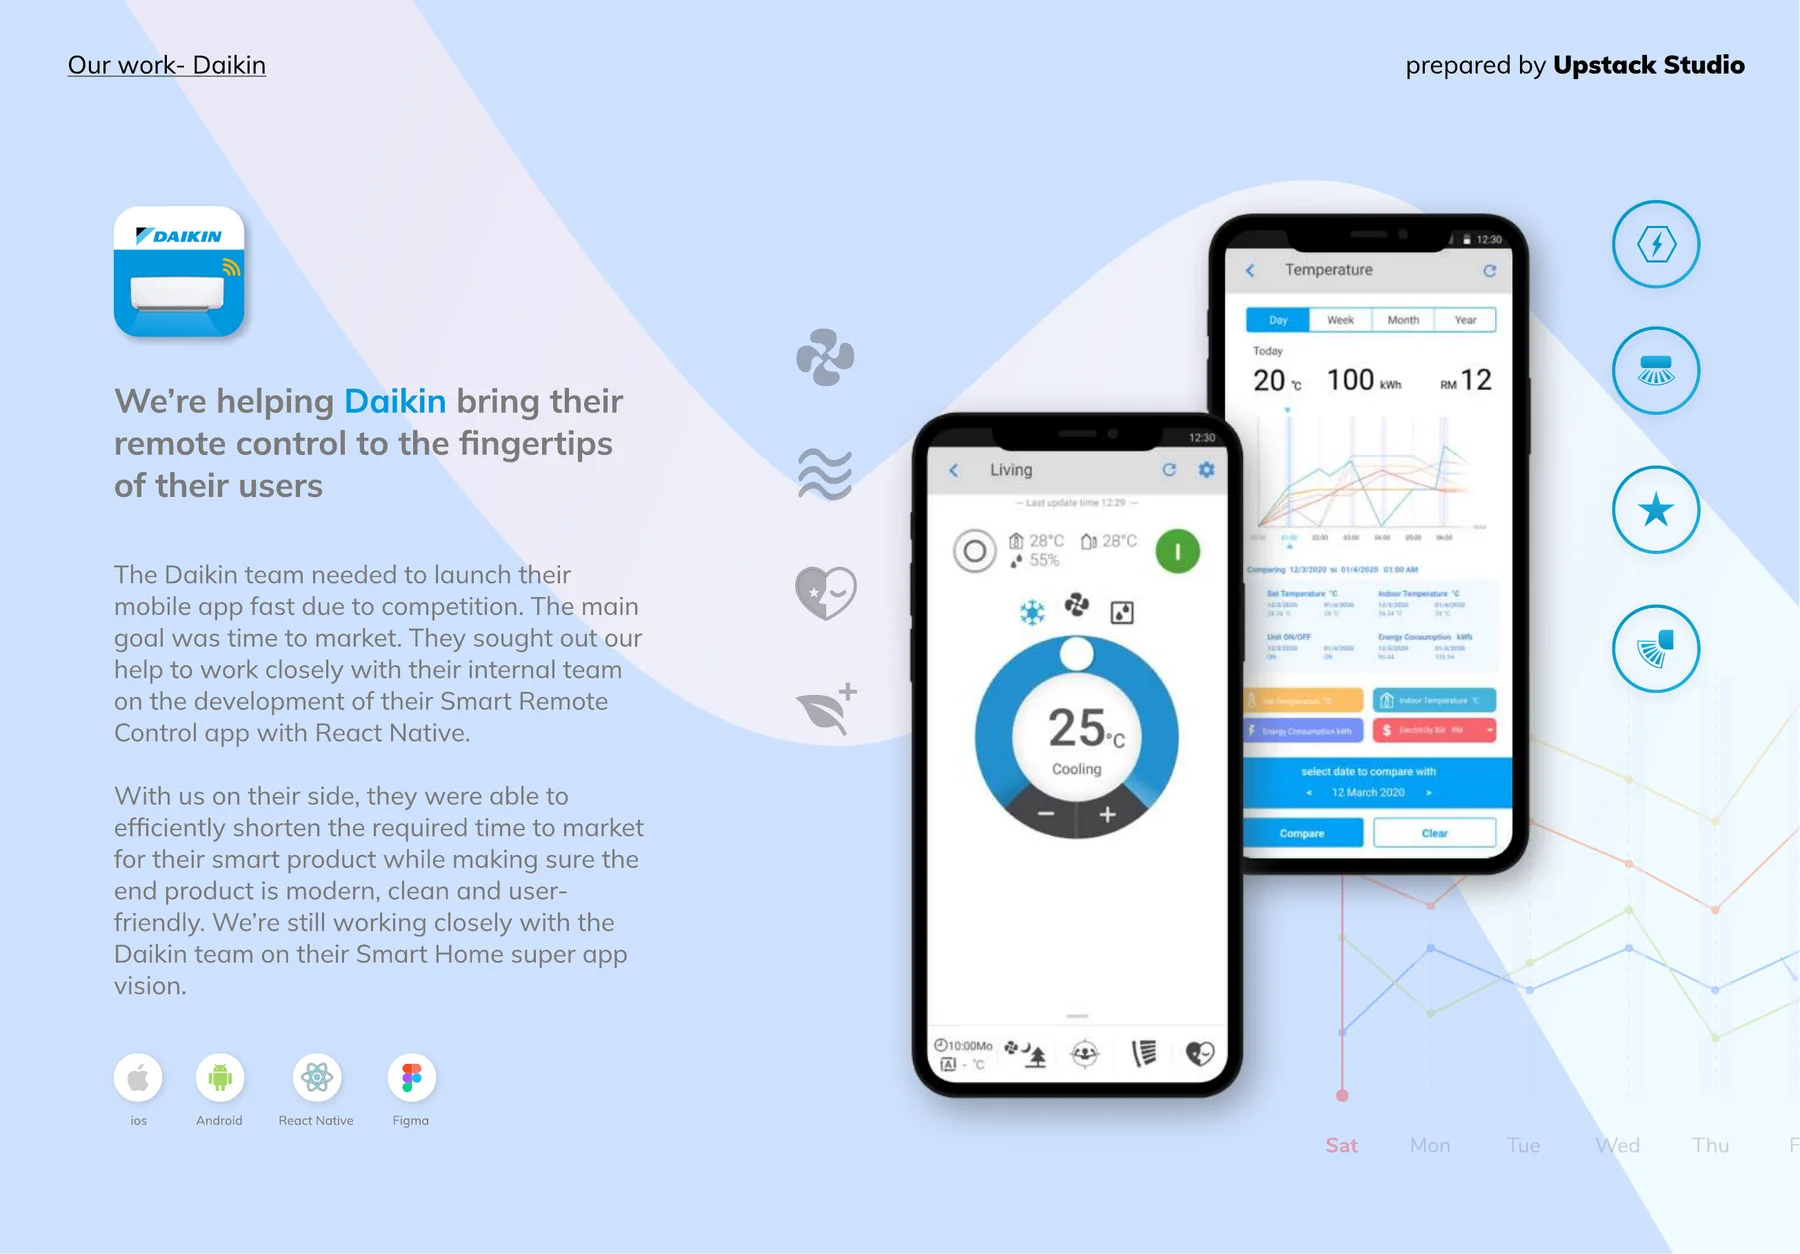
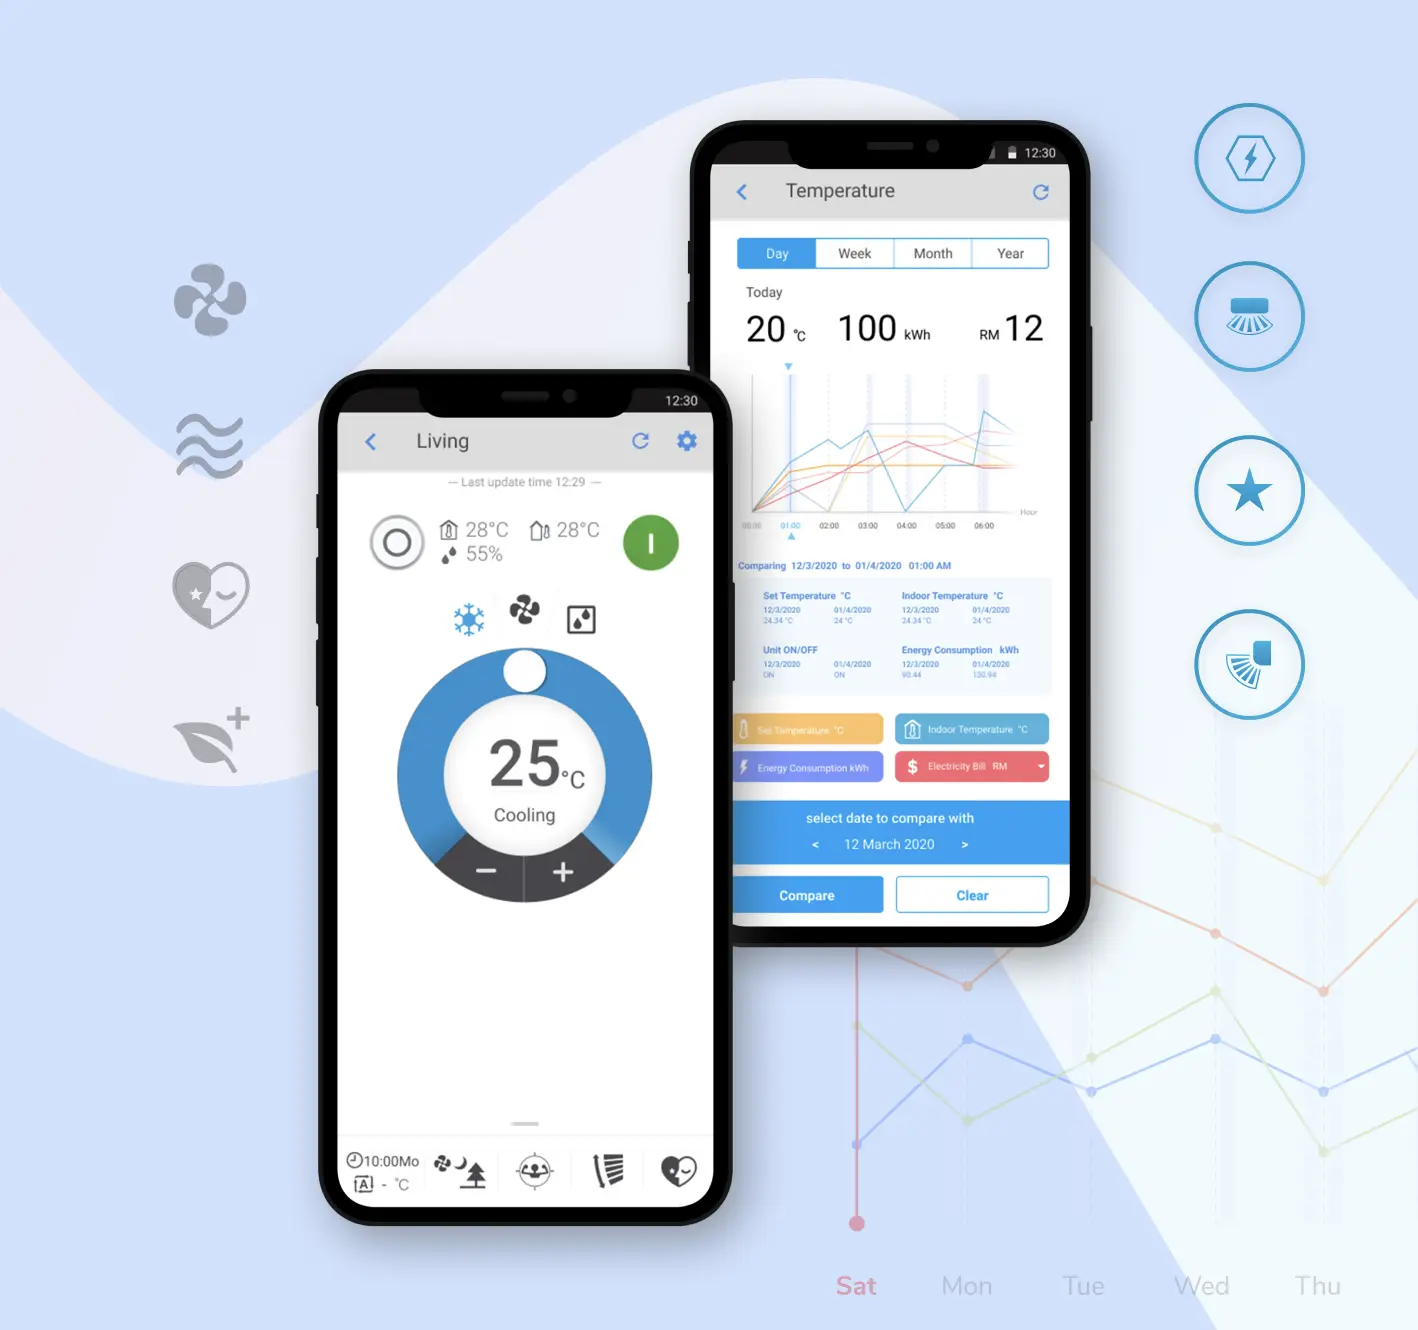
Use supplied project screenshots

diff --git a/src/assets/css/site.css b/src/assets/css/site.css
@@ -139,9 +139,7 @@ figcaption{font-size:.8125rem;line-height:1.5;color:var(--muted);margin-top:.75r
 .project-story:nth-child(even) .project-story-visual{order:2}
 .project-story-visual{min-width:0;margin:0}
 .project-story-visual>div{aspect-ratio:1;overflow:hidden;background:var(--soft)}
-.project-story-visual img{display:block;width:160%;max-width:none;height:auto;transform:translate(-37%,-5%)}
-.project-story-visual-bookxcess img{transform:translate(-46%,-5%)}
-.project-story-visual-teleme img{transform:translate(-33%,-5%)}
+.project-story-visual img{display:block;width:100%;height:100%;object-fit:cover}
 .project-story-visual figcaption{text-align:center}
 .project-story-copy .page-kicker{margin-bottom:.75rem;color:var(--signal)}
 .project-story-copy h3{font-size:clamp(1.75rem,2.8vw,2.35rem);line-height:1.25;margin-bottom:1.25rem;max-width:18ch}
